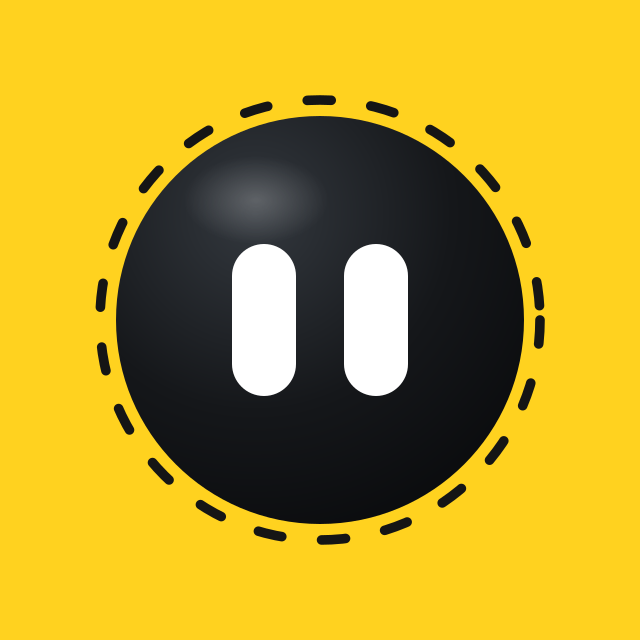
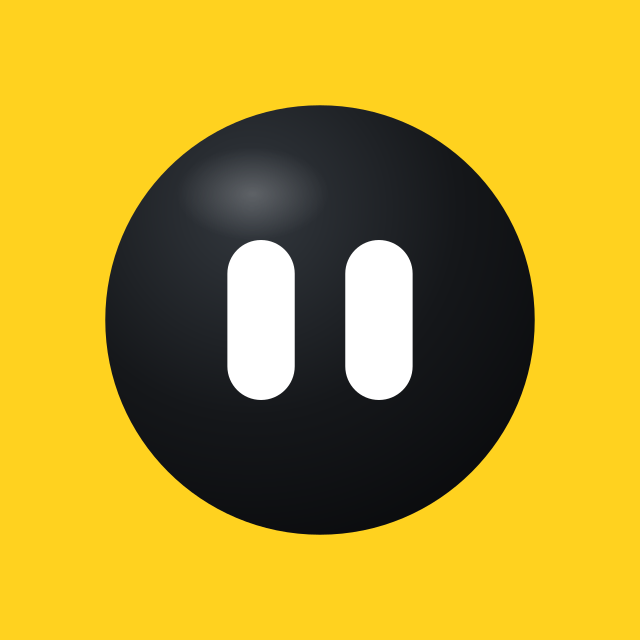
Drop Otto's dashed ring
Otto is just the sphere now: stickers, bot avatar, email image, icons
and the share image are re-rendered without the ring.

Changed region(s): [[0.125, 0.125, 0.875, 0.875], [0.5625, 0.375, 0.6562, 0.625], [0.3438, 0.375, 0.4375, 0.625]]

diff --git a/design/og.html b/design/og.html
@@ -28,7 +28,6 @@ h1{margin:0;font-weight:800;font-size:104px;line-height:.95;letter-spacing:-.035
     </radialGradient>
   </defs>
   
-  <circle cx="60" cy="60" r="55" fill="none" stroke="#FFD21F" stroke-width="2.4" stroke-dasharray="6 10" stroke-linecap="round"/>
   <circle cx="60" cy="60" r="51" fill="url(#head)"/>
   <ellipse cx="44" cy="30" rx="18" ry="11" fill="url(#spec)"/>
   <rect x="38" y="41" width="16" height="38" rx="8" fill="#fff"/><rect x="66" y="41" width="16" height="38" rx="8" fill="#fff"/>
@@ -45,7 +44,6 @@ h1{margin:0;font-weight:800;font-size:104px;line-height:.95;letter-spacing:-.035
     </radialGradient>
   </defs>
   
-  <circle cx="60" cy="60" r="55" fill="none" stroke="#FFD21F" stroke-width="2.4" stroke-dasharray="6 10" stroke-linecap="round"/>
   <circle cx="60" cy="60" r="51" fill="url(#head)"/>
   <ellipse cx="44" cy="30" rx="18" ry="11" fill="url(#spec)"/>
   <rect x="37" y="53" width="18" height="16" rx="9" fill="#fff"/><rect x="65" y="53" width="18" height="16" rx="9" fill="#fff"/>
